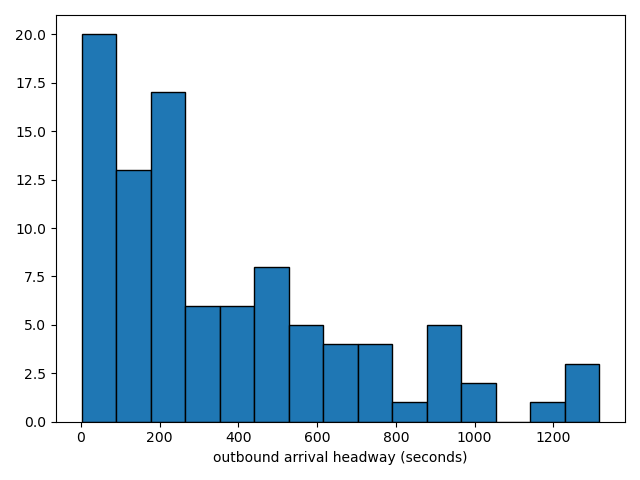
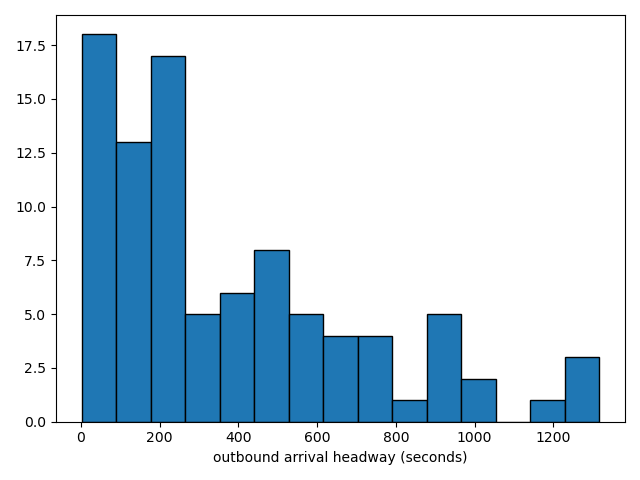
outbound modeling

diff --git a/src/04_SIMULATION/scratch.py b/src/04_SIMULATION/scratch.py
@@ -15,7 +15,24 @@ from scipy.stats import lognorm, norm
 import seaborn as sn
 from post_process import *
 
+
+def bus_availability(sched_arr, sched_dep, actual_arr, iden):
+    actual_dep = [0] * len(sched_dep)
+    for n in range(len(sched_dep)):
+        actual_dep[n] = max(sched_dep[n], actual_arr[n])
+    plt.plot(sched_arr, np.arange(1, len(sched_arr)+1),'--', label='scheduled arrivals', color='green', alpha=0.5)
+    plt.plot(sched_dep, np.arange(1, len(sched_dep) + 1),'--', label='scheduled departures', color='red', alpha=0.5)
+    plt.plot(actual_arr, np.arange(1, len(actual_arr) + 1),label='actual arrivals', color='green')
+    plt.plot(actual_dep, np.arange(1, len(actual_dep) + 1),label='actual departures', color='red')
+    plt.legend()
+    plt.savefig('in/vis/sample_bus_availability' + iden + '.png')
+
+    plt.close()
+    actual_dep_hw = [j - k for j, k in zip(actual_dep[1:], actual_dep[:-1])]
+    return actual_dep_hw
+
 # extract
+
 
 # for generation of graphs you want:
 dep_delay1_params = load('in/xtr/rt_20-2019-09/dep_delay1_params.pkl')
@@ -27,32 +44,51 @@ trip_time2_params = load('in/xtr/rt_20-2019-09/trip_time2_params.pkl')
 sched_deps_out1 = load('in/xtr/rt_20-2019-09/scheduled_departures_outbound1.pkl')
 sched_deps_out2 = load('in/xtr/rt_20-2019-09/scheduled_departures_outbound2.pkl')
 
-# long pattern
-dep_delay1 = lognorm.rvs(dep_delay1_params[0], loc=dep_delay1_params[1], scale=dep_delay1_params[2], size=len(sched_deps_out1))
-trip_times1 = norm.rvs(loc=trip_time1_params[0], scale=trip_time1_params[1], size=len(sched_deps_out1))
-sim_arr1 = [i + j + k for i, j, k in zip(sched_deps_out1, dep_delay1, trip_times1)]
-# plt.hist(dep_delay1, bins=15, ec='black')
-# plt.show()
-# plt.close()
-# short pattern
-dep_delay2 = lognorm.rvs(dep_delay2_params[0], loc=dep_delay2_params[1], scale=dep_delay2_params[2], size=len(sched_deps_out2))
-trip_times2 = norm.rvs(loc=trip_time2_params[0], scale=trip_time2_params[1], size=len(sched_deps_out2))
-sim_arr2 = [i + j + k for i, j, k in zip(sched_deps_out2, dep_delay2, trip_times2)]
-# plt.hist(dep_delay2, bins=15, ec='black')
-# plt.show()
-# plt.close()
-# join and validate with scheduled arrivals and arrival headway
-sim_arr = sim_arr1 + sim_arr2
-sim_arr.sort()
-scheduled_arrivals_out = load('in/xtr/rt_20-2019-09/scheduled_arrivals_outbound.pkl')
-print(sched_deps_out1+sched_deps_out2)
-print([round(i) for i in sim_arr])
-print(scheduled_arrivals_out)
-sim_arr_hw = [round(i - j) for i, j in zip(sim_arr[1:], sim_arr[:-1])]
+sim_arr_hws = []
+sched_arr_out = load('in/xtr/rt_20-2019-09/scheduled_arrivals_outbound.pkl')
 observed_hw = load('in/xtr/rt_20-2019-09/arrival_headway_outbound.pkl')
-plt.hist(sim_arr_hw, bins=15, ec='black')
-plt.show()
+sched_dep_in = load('in/xtr/rt_20-2019-09/departure_times_inbound.pkl')
+sim_dep_hws = []
+for i in range(4):
+    # long pattern
+    dep_delay1 = lognorm.rvs(dep_delay1_params[0], loc=dep_delay1_params[1], scale=dep_delay1_params[2], size=len(sched_deps_out1))
+    trip_times1 = norm.rvs(loc=trip_time1_params[0], scale=trip_time1_params[1], size=len(sched_deps_out1))
+    sim_arr1 = [i + j + k for i, j, k in zip(sched_deps_out1, dep_delay1, trip_times1)]
+    # plt.hist(dep_delay1, bins=15, ec='black')
+    # plt.show()
+    # plt.close()
+    # short pattern
+    dep_delay2 = lognorm.rvs(dep_delay2_params[0], loc=dep_delay2_params[1], scale=dep_delay2_params[2], size=len(sched_deps_out2))
+    trip_times2 = norm.rvs(loc=trip_time2_params[0], scale=trip_time2_params[1], size=len(sched_deps_out2))
+    sim_arr2 = [i + j + k for i, j, k in zip(sched_deps_out2, dep_delay2, trip_times2)]
+    # plt.hist(dep_delay2, bins=15, ec='black')
+    # plt.show()
+    # plt.close()
+    # join and validate with scheduled arrivals and arrival headway
+    sim_arr = sim_arr1 + sim_arr2
+    sim_arr.sort()
+    sim_arr_hw = [round(i - j) for i, j in zip(sim_arr[1:], sim_arr[:-1])]
+    sim_arr_hws += sim_arr_hw
+    sim_dep_hw = bus_availability(sched_arr_out, sched_dep_in, sim_arr, str(i))
+    sim_dep_hws += sim_dep_hw
+
+
+sns.kdeplot(observed_hw, label='observed')
+sns.kdeplot(sim_arr_hws, label='simulated')
+plt.xlabel('outbound arrival headway (seconds)')
+plt.legend()
+plt.savefig('in/vis/validate_arrival_hw_out.png')
 plt.close()
+
+dep_hw = load('in/xtr/rt_20-2019-09/departure_headway_inbound.pkl')
+sns.kdeplot(dep_hw, label='observed')
+sns.kdeplot(sim_dep_hws, label='simulated')
+plt.xlabel('inbound departure headway (seconds)')
+plt.legend()
+plt.savefig('in/vis/validate_depart_hw_in.png')
+plt.close()
+
+print([np.mean(sim_dep_hws), np.median(sim_dep_hws), np.std(sim_dep_hws)])
 #
 # # pattern 1 (long)
 # scheduled_departures1 = np.array([])

diff --git a/src/04_SIMULATION/pre_process.py b/src/04_SIMULATION/pre_process.py
@@ -328,7 +328,7 @@ def get_outbound_travel_time(path_stop_times, start_time, end_time, dates, toler
     df = stop_times_df[stop_times_df['stop_sequence'].isin([23, 63])]
     df = df[df['stop_id'] == 386]
     df = df[df['schd_sec'] <= end_time]
-    df = df[df['schd_sec'] >= start_time - 360]
+    df = df[df['schd_sec'] >= start_time]
     df = df.sort_values(by='schd_sec')
     ordered_arriving_trip_ids = df['trip_id'].unique().tolist()
 
@@ -338,7 +338,7 @@ def get_outbound_travel_time(path_stop_times, start_time, end_time, dates, toler
     df1 = stop_times_df[stop_times_df['stop_sequence'] == 63]
     df1 = df1[df1['stop_id'] == 386]
     df1 = df1[df1['schd_sec'] <= end_time]
-    df1 = df1[df1['schd_sec'] >= start_time - 360]
+    df1 = df1[df1['schd_sec'] >= start_time]
     trip_ids1 = df1['trip_id'].unique().tolist()
 
     df_deps1 = stop_times_df[stop_times_df['trip_id'].isin(trip_ids1)]
@@ -352,7 +352,7 @@ def get_outbound_travel_time(path_stop_times, start_time, end_time, dates, toler
     df2 = stop_times_df[stop_times_df['stop_sequence'] == 23]
     df2 = df2[df2['stop_id'] == 386]
     df2 = df2[df2['schd_sec'] <= end_time]
-    df2 = df2[df2['schd_sec'] >= start_time - 360]
+    df2 = df2[df2['schd_sec'] >= start_time]
     trip_ids2 = df2['trip_id'].unique().tolist()
 
     df_deps2 = stop_times_df[stop_times_df['trip_id'].isin(trip_ids2)]
@@ -400,10 +400,10 @@ def get_outbound_travel_time(path_stop_times, start_time, end_time, dates, toler
 
     df = stop_times_df[stop_times_df['trip_id'].isin(ordered_arriving_trip_ids)]
     df = df.sort_values(by=['stop_sequence', 'schd_sec'])
-    df.to_csv('in/vis/outbound_trajectories.csv', index=False)
+    df.to_csv('in/vis/trajectories_outbound.csv', index=False)
     df_arrivals = df[df['stop_id'] == 386]
     df_arrivals = df_arrivals.sort_values(by='schd_sec')
-    df_arrivals.to_csv('in/vis/outbound_arrivals.csv', index=False)
+    df_arrivals.to_csv('in/vis/arrivals_outbound.csv', index=False)
     for d in dates:
         temp_df = df[df['event_time'].astype(str).str[:10] == d]
         temp_df = temp_df[temp_df['stop_id'] == 386]
@@ -474,11 +474,12 @@ def get_outbound_travel_time(path_stop_times, start_time, end_time, dates, toler
 
 def get_scheduled_bus_availability(path_stop_times, dates, start_time, end_time):
     stop_times_df = pd.read_csv(path_stop_times)
-    date = dates[0]
+    date = dates[2]
     stop_times_df = stop_times_df[stop_times_df['event_time'].astype(str).str[:10] == date]
+
     df_outbound = stop_times_df[stop_times_df['stop_sequence'].isin([23, 63])]
     df_outbound = df_outbound[df_outbound['stop_id'] == 386]
-    df_outbound = df_outbound[df_outbound['schd_sec'] >= start_time - 360]
+    df_outbound = df_outbound[df_outbound['schd_sec'] >= start_time]
     df_outbound = df_outbound[df_outbound['schd_sec'] <= end_time]
     df_outbound = df_outbound.sort_values(by='avl_sec')
     actual_arrivals = df_outbound['avl_sec'] % 86400
@@ -490,7 +491,7 @@ def get_scheduled_bus_availability(path_stop_times, dates, start_time, end_time)
     df_inbound = df_inbound[df_inbound['stop_id'] == 386]
     df_inbound = df_inbound[df_inbound['schd_sec'] >= start_time]
     df_inbound = df_inbound[df_inbound['schd_sec'] <= end_time]
-    df_inbound = df_inbound.sort_values(by='avl_sec')
+    df_inbound = df_inbound.sort_values(by='avl_dep_sec')
     actual_departures = df_inbound['avl_dep_sec'] % 86400
     actual_departures = actual_departures.tolist()
     df_inbound = df_inbound.sort_values(by='schd_sec')
